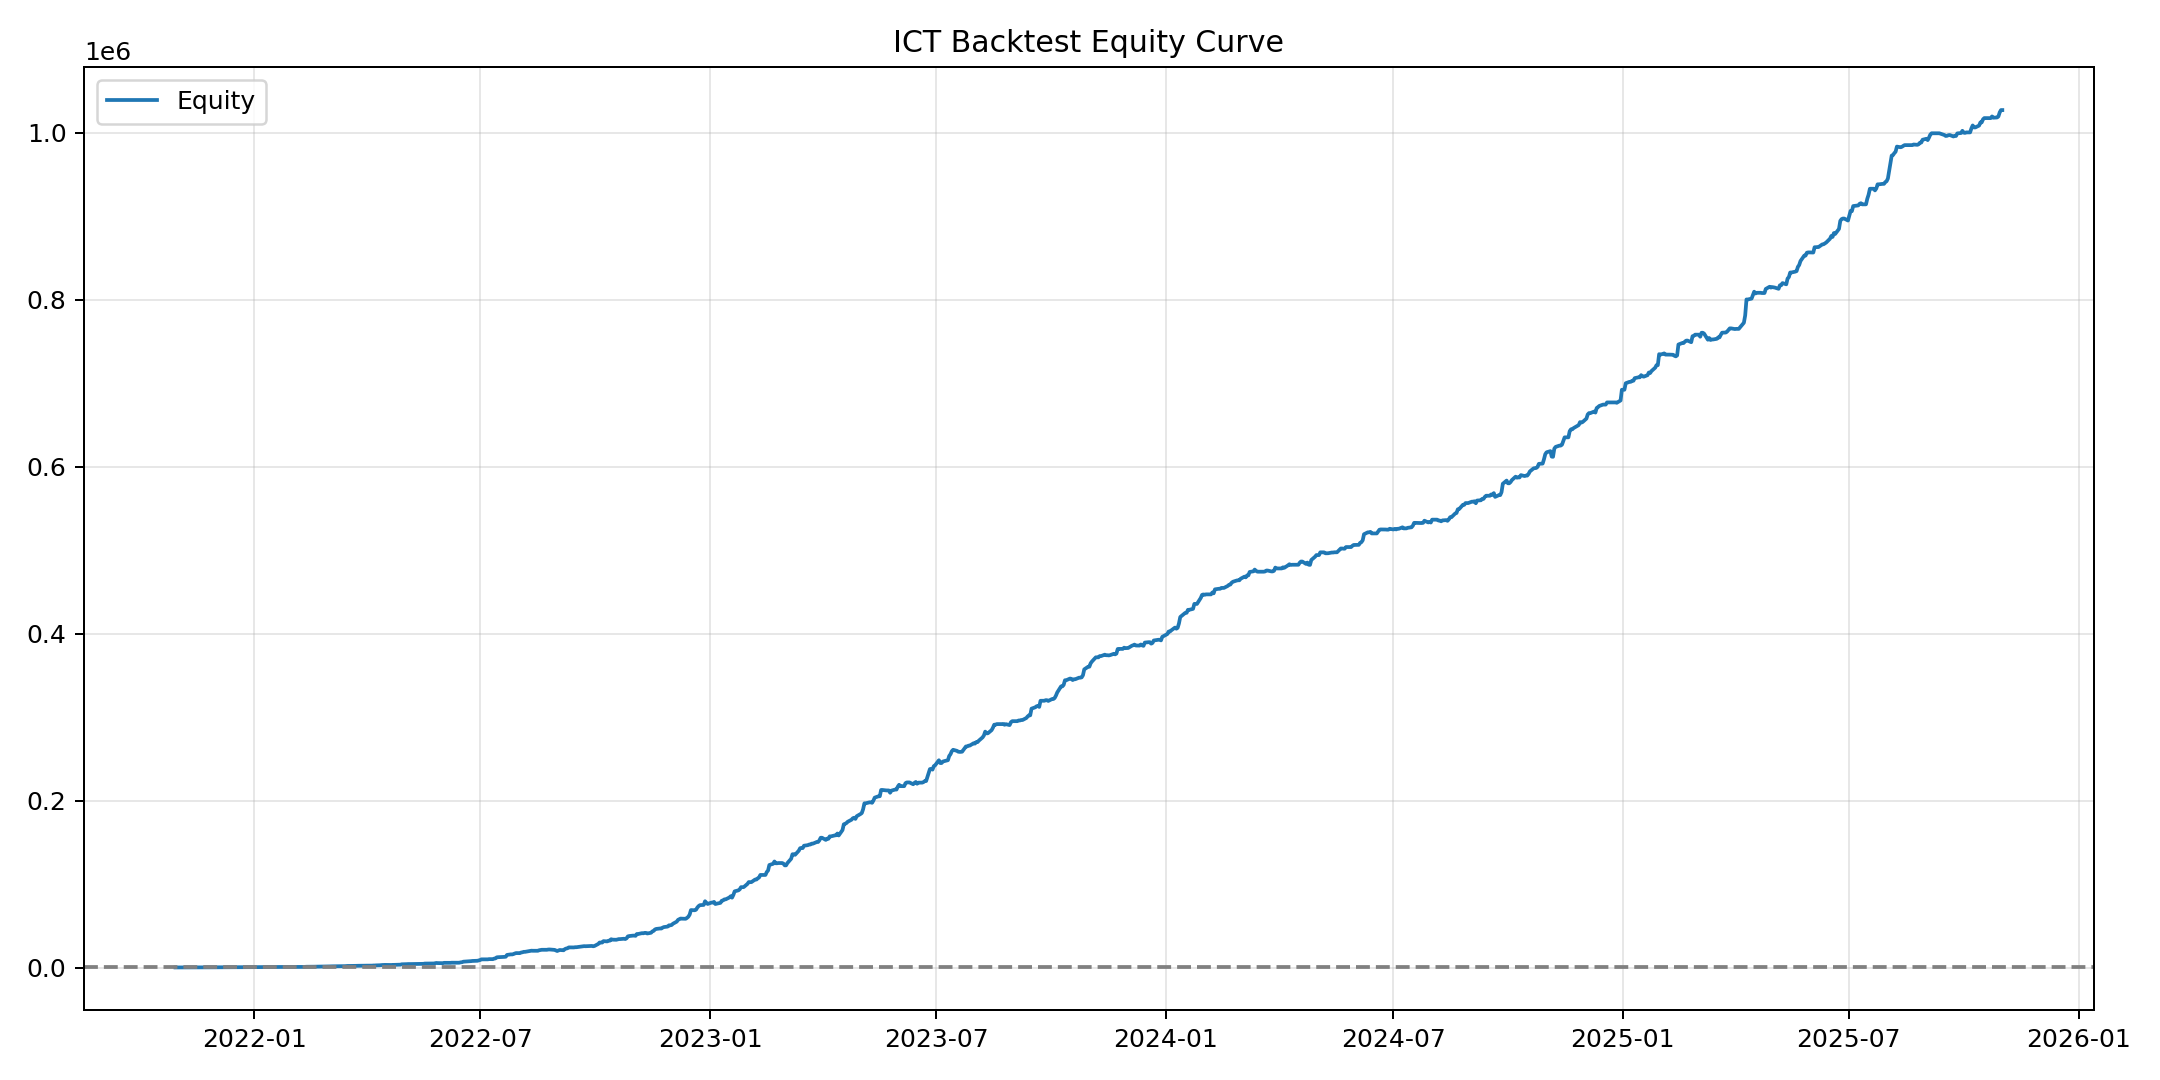
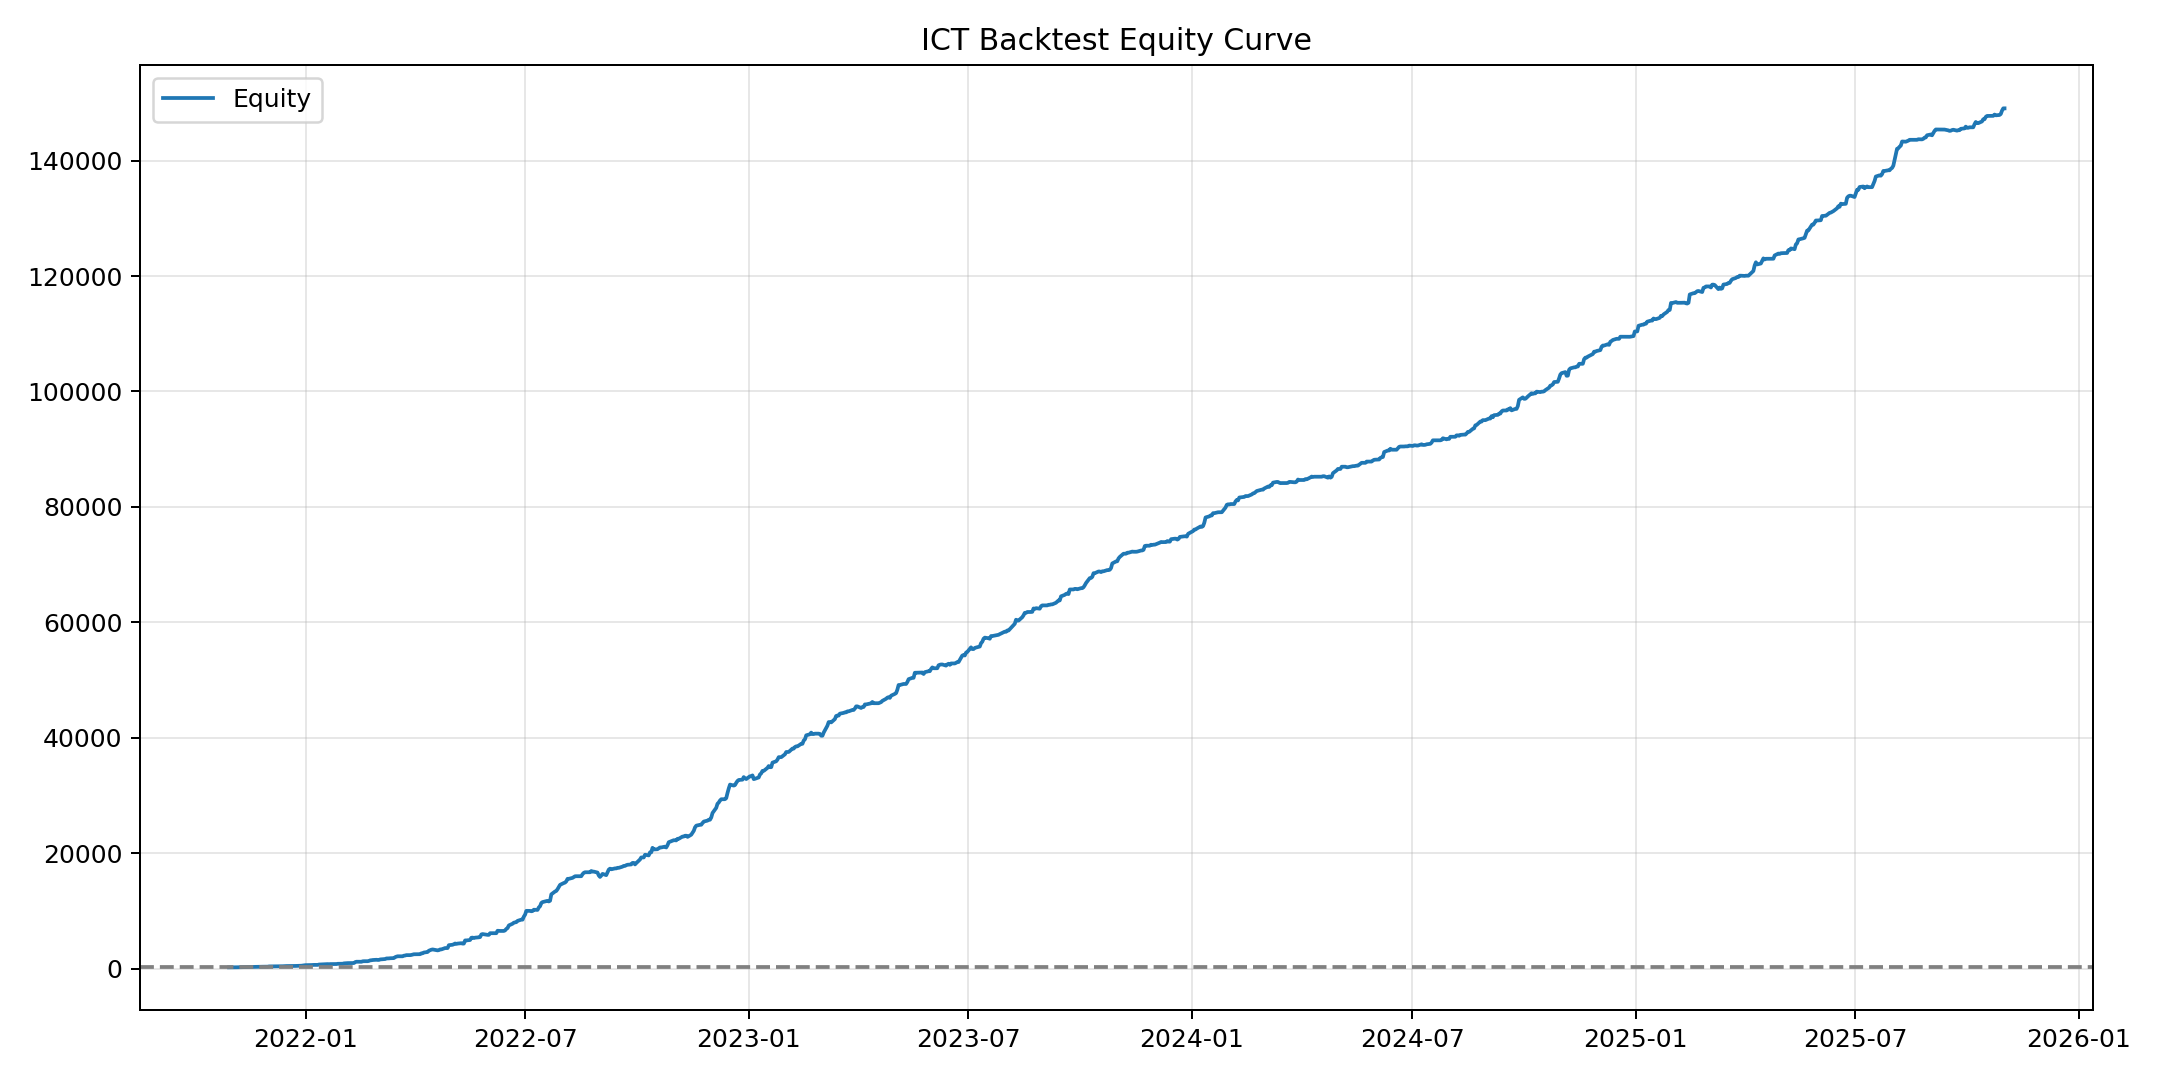
add gold scalp too

diff --git a/ict_trader.py b/ict_trader.py
@@ -41,7 +41,7 @@ COMMISSION_PER_M = 7
 
 # === SAFETY ===
 MIN_BALANCE_THRESHOLD = 100.0
-MAX_POSITION_UNITS = 1000000
+MAX_POSITION_UNITS = 100000
 FVG_CONFIRMATION_CANDLES = 0   # ← FIXED: NO DELAY
 
 RELAXED_MODE = True
